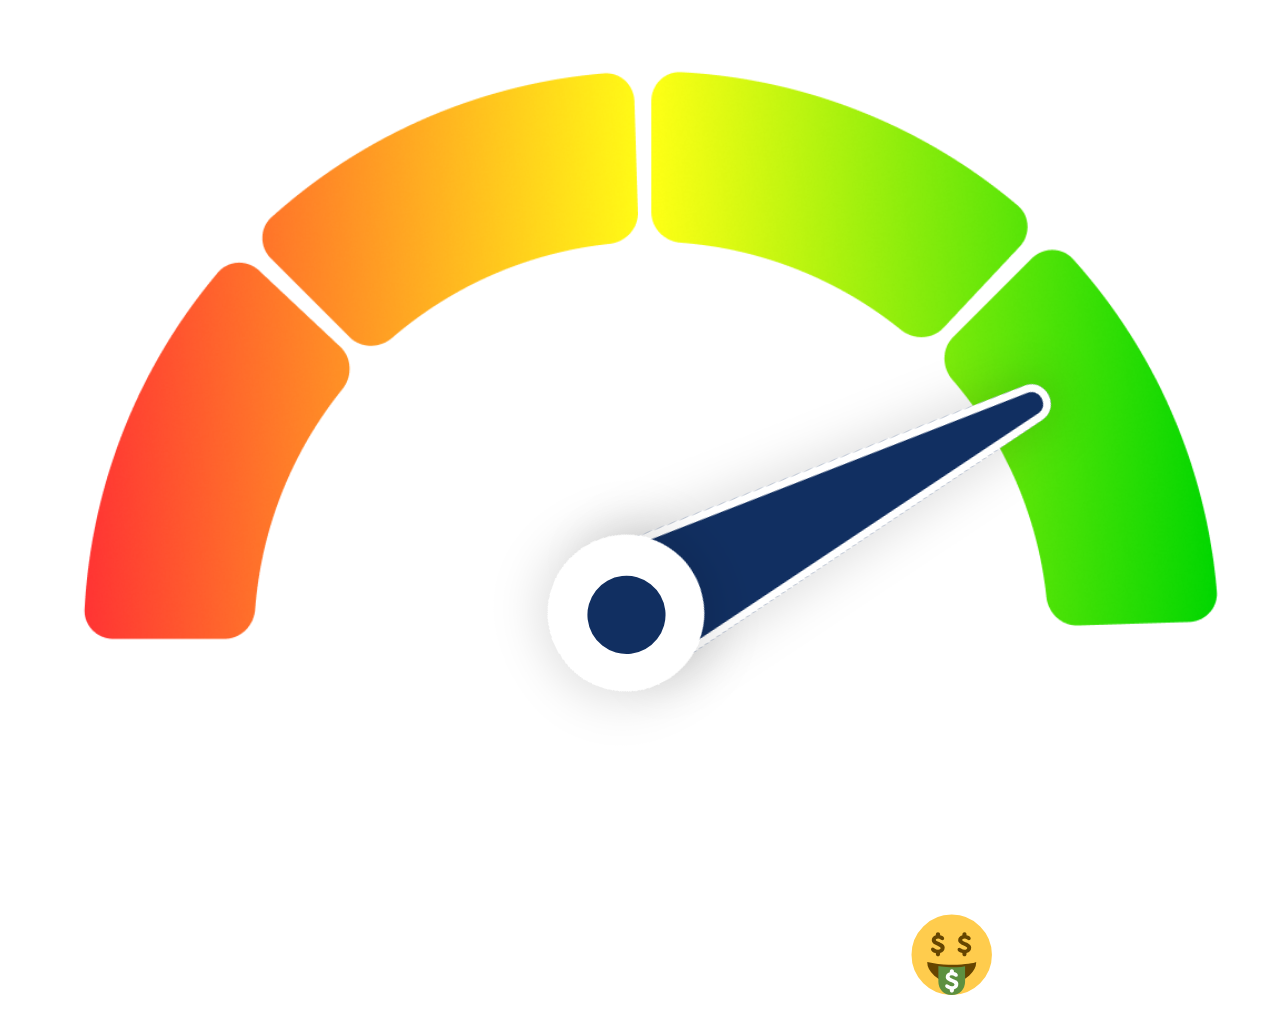
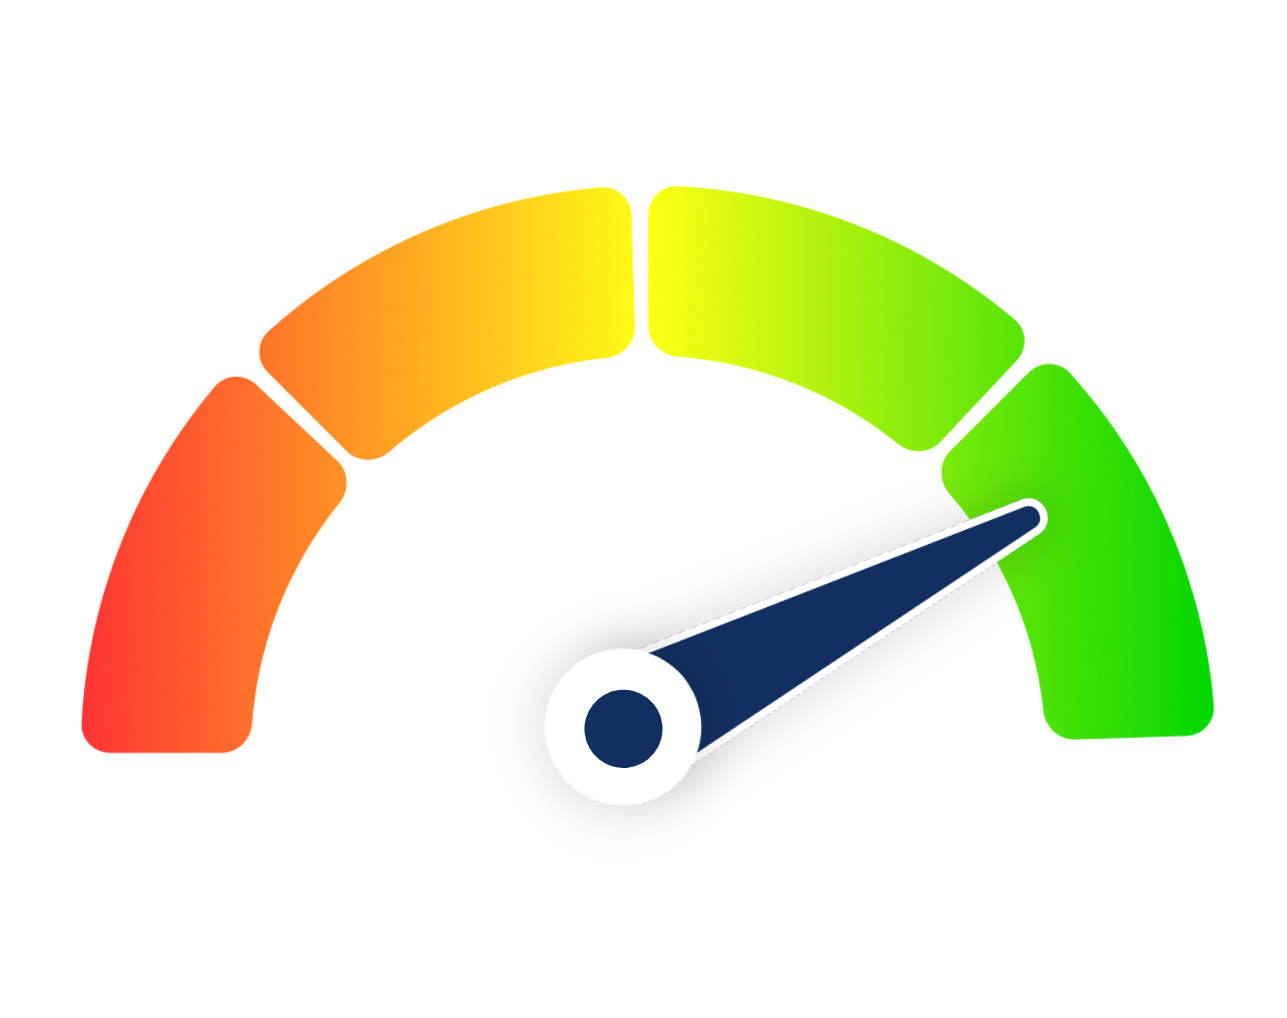
minor updates

Changed region(s): [[0.0622, 0.0609, 0.9635, 0.7917], [0.6838, 0.8831, 0.777, 0.9745]]

diff --git a/src/components/WhatsAppBotSection.tsx b/src/components/WhatsAppBotSection.tsx
@@ -190,10 +190,10 @@ export function WhatsAppBotSection() {
                 rel="noopener noreferrer"
                 className="bg-[#25D366] hover:bg-[#20BD5A] text-black font-medium py-3 px-6 rounded-lg flex items-center justify-center w-full"
               >
-                <svg className="w-5 h-5 mr-2" viewBox="0 0 24 24" fill="currentColor" xmlns="http://www.w3.org/2000/svg">
+                {/* <svg className="w-5 h-5 mr-2" viewBox="0 0 24 24" fill="currentColor" xmlns="http://www.w3.org/2000/svg">
                   <path d="M17.472 14.382c-.297-.149-1.758-.867-2.03-.967-.273-.099-.471-.148-.67.15-.197.297-.767.966-.94 1.164-.173.199-.347.223-.644.075-.297-.15-1.255-.463-2.39-1.475-.883-.788-1.48-1.761-1.653-2.059-.173-.297-.018-.458.13-.606.134-.133.298-.347.446-.52.149-.174.198-.298.298-.497.099-.198.05-.371-.025-.52-.075-.149-.669-1.612-.916-2.207-.242-.579-.487-.5-.669-.51-.173-.008-.371-.01-.57-.01-.198 0-.52.074-.792.372-.272.297-1.04 1.016-1.04 2.479 0 1.462 1.065 2.875 1.213 3.074.149.198 2.096 3.2 5.077 4.487.709.306 1.262.489 1.694.625.712.227 1.36.195 1.871.118.571-.085 1.758-.719 2.006-1.413.248-.694.248-1.289.173-1.413-.074-.124-.272-.198-.57-.347z"/>
                   <path d="M12.04 0C5.494 0 .15 5.336.15 11.878c0 2.096.547 4.142 1.588 5.945L.057 24l6.305-1.654a11.892 11.892 0 005.683 1.448h.005c6.554 0 11.89-5.335 11.893-11.893C23.934 5.336 18.596 0 12.04 0zm7.192 16.874a9.32 9.32 0 01-3.315 2.427 9.385 9.385 0 01-4.683.649 9.395 9.395 0 01-6.867-4.621A9.334 9.334 0 013.227 7.31a9.346 9.346 0 016.683-4.926 9.363 9.363 0 017.77 1.86 9.293 9.293 0 013.065 4.003 9.262 9.262 0 01-1.514 8.627z"/>
-                </svg>
+                </svg> */}
                 Try MarketMynds KAI
               </a>
               <p className="text-gray-300 text-sm text-center">Try with 3 Free credits.</p>
@@ -218,10 +218,10 @@ export function WhatsAppBotSection() {
                   rel="noopener noreferrer"
                   className="bg-[#25D366] hover:bg-[#20BD5A] text-black font-medium py-3 px-6 rounded-lg inline-flex items-center"
                 >
-                  <svg className="w-5 h-5 mr-2" viewBox="0 0 24 24" fill="currentColor" xmlns="http://www.w3.org/2000/svg">
+                  {/* <svg className="w-5 h-5 mr-2" viewBox="0 0 24 24" fill="currentColor" xmlns="http://www.w3.org/2000/svg">
                     <path d="M17.472 14.382c-.297-.149-1.758-.867-2.03-.967-.273-.099-.471-.148-.67.15-.197.297-.767.966-.94 1.164-.173.199-.347.223-.644.075-.297-.15-1.255-.463-2.39-1.475-.883-.788-1.48-1.761-1.653-2.059-.173-.297-.018-.458.13-.606.134-.133.298-.347.446-.52.149-.174.198-.298.298-.497.099-.198.05-.371-.025-.52-.075-.149-.669-1.612-.916-2.207-.242-.579-.487-.5-.669-.51-.173-.008-.371-.01-.57-.01-.198 0-.52.074-.792.372-.272.297-1.04 1.016-1.04 2.479 0 1.462 1.065 2.875 1.213 3.074.149.198 2.096 3.2 5.077 4.487.709.306 1.262.489 1.694.625.712.227 1.36.195 1.871.118.571-.085 1.758-.719 2.006-1.413.248-.694.248-1.289.173-1.413-.074-.124-.272-.198-.57-.347z"/>
                     <path d="M12.04 0C5.494 0 .15 5.336.15 11.878c0 2.096.547 4.142 1.588 5.945L.057 24l6.305-1.654a11.892 11.892 0 005.683 1.448h.005c6.554 0 11.89-5.335 11.893-11.893C23.934 5.336 18.596 0 12.04 0zm7.192 16.874a9.32 9.32 0 01-3.315 2.427 9.385 9.385 0 01-4.683.649 9.395 9.395 0 01-6.867-4.621A9.334 9.334 0 013.227 7.31a9.346 9.346 0 016.683-4.926 9.363 9.363 0 017.77 1.86 9.293 9.293 0 013.065 4.003 9.262 9.262 0 01-1.514 8.627z"/>
-                  </svg>
+                  </svg> */}
                   Try MarketMynds KAI
                 </a>
                 

diff --git a/src/components/HeroSection.tsx b/src/components/HeroSection.tsx
@@ -346,12 +346,20 @@ export function HeroSection() {
               <p className="text-sm text-gray-400">Data Points</p>
             </div>
           </div>
+
+          {/* Disclaimer */}
+          <div className="mt-8 max-w-2xl mx-auto text-center">
+            <p className="text-xs text-gray-400">
+              MarketMynds provides market information for educational purposes only and is not registered with SEBI to provide investment advice.
+            </p>
+          </div>
         </div>
       </div>
 
       {/* Add the keyframes as a global style */}
       <style dangerouslySetInnerHTML={{ __html: animations }} />
     </div>
+
   );
 }
 

diff --git a/src/components/ReportPreviewSection.tsx b/src/components/ReportPreviewSection.tsx
@@ -183,7 +183,7 @@ export function ReportPreviewSection() {
             className="bg-gray-900/50 backdrop-blur-sm p-8 rounded-xl border border-gray-800 cursor-pointer hover:border-finance-green/50 transition-all"
             onClick={scrollToPreview}
           >
-            <h4 className="text-xl font-semibold text-white mb-4">Fear and Greed Index</h4>
+            <h4 className="text-xl font-semibold text-white mb-4">Fear and Greed Info</h4>
             <div className="flex flex-col items-center justify-center p-4 bg-gray-800/50 rounded-lg">
               <img 
                 src="/images/MMI.png" 

diff --git a/src/components/Footer.tsx b/src/components/Footer.tsx
@@ -76,7 +76,7 @@ export function Footer() {
         
         <div className="mt-8">
           <p className="text-xs text-gray-500 text-center">
-            Disclaimer: Market Mynds is not a tips provider. The report is for informational purposes only and not investment advice. Read *Terms of Service
+            Disclaimer: MarketMynds provides market information for educational purposes only and is not registered with SEBI to provide investment advice. Read *Terms of Service
           </p>
         </div>
       </div>

diff --git a/src/pages/Index.tsx b/src/pages/Index.tsx
@@ -26,7 +26,7 @@ const Index = () => {
       <TestimonialsSection />
       {/* <SubscriptionCTA /> */}
       <Pricing/>
-      <ReferEarnSection />
+      {/* <ReferEarnSection /> */}
       <Footer />
     </div>
   );
